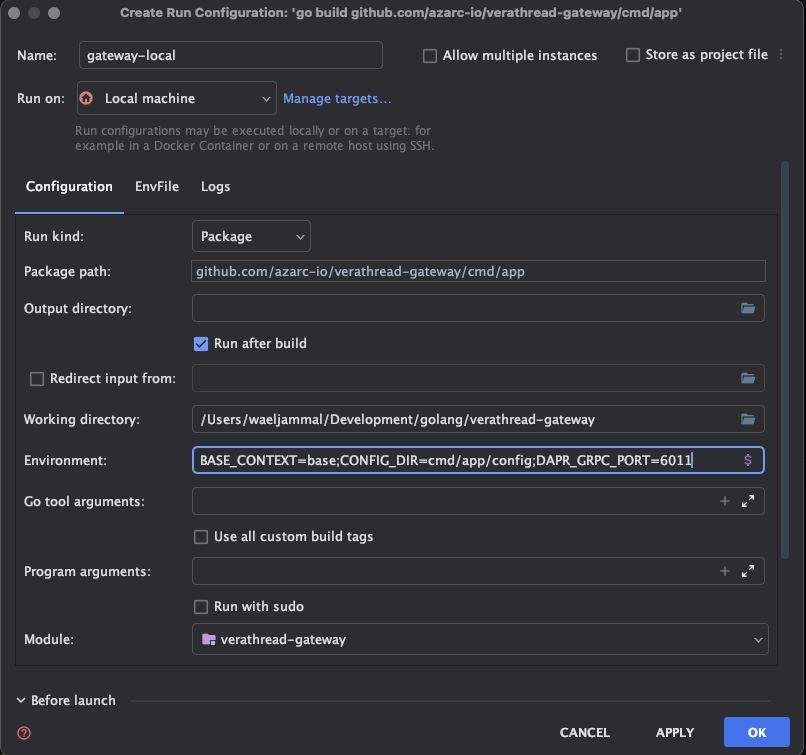
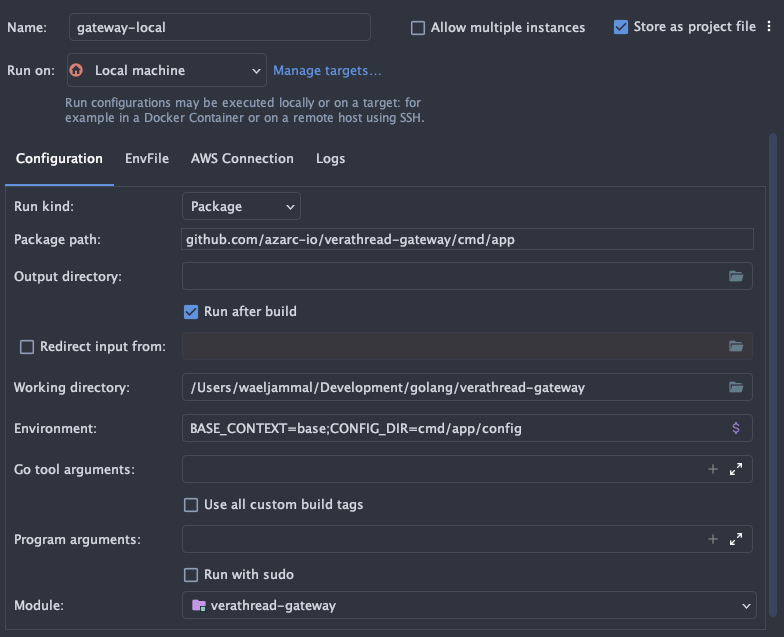
RPP-6: Doc changes

diff --git a/docs/docs/gs_setup.md b/docs/docs/gs_setup.md
@@ -71,13 +71,12 @@ Here are some descriptions of important environment settings:
 - NAMESPACE: Set this to the first initial and last name e.g. `wael-dev`
     - **Note**: If you are using the developer toolkit then you must set this to the same namespace as defined in the toolkits `.env` file
 - BIND_ADDRESS: You should leave this as default unless you want services to be exposed on a different ip
-- NATS_ADDRESS: This is optional unless you have auto app discovery enabled (off by default)
-- AUTH_DOMAIN: Ask another dev or your manager for this value
+- MONGO_HOST: The mongodb host, this is a mongo dsn eg. `mongo://localhost:27017`
+- NATS_ADDRESS: The nats server address eg. `nats://localhost:4222`
+- AUTH_DOMAIN: Ask another dev or your manager for this value, this is the auth0 domain to use
 - AUTH_CLIENT_ID: Ask another dev or your manager for this value
 - AUTH_CLIENT_SECRET: Ask another dev or your manager for this value
 - PROJECT_BASE_DIR: This should be the absolute path to the root of the project where you have it checked out
-- DAPRD_BINARY: Make sure you update this whenever a new release is available in the dapr repo
-- DAPRD_BIN_PATH: Absolute path to the `.data/bin` in the root of the project
 - TILT_ARCH: Set this to `amd64` if you are on an intel machine otherwise set it to `arm64`
 
 ### Pick a dev pipeline
@@ -85,7 +84,7 @@ Here are some descriptions of important environment settings:
 !!! warning
 
     Please note that you can not run both appraoches concurrently, if you want to develop using tilt then
-    you must stop anything started in the other for eg. by running `docker-compose down` if you were using bare metal and 
+    you must stop anything started in the other for eg. by running `docker compose down` if you were using docker compose and 
     want to switch to tilt. This is because both solutions expose the same ports at the host level.
 
 If you would like to develop live on kubernetes then start [here](tilt.md) otherwise go [here](ide.md).

diff --git a/docs/docs/compose.md b/docs/docs/compose.md
@@ -3,7 +3,7 @@
 You can begin working on this project using docker compose without the need to have `golang` and `node` installed on your
 machine.
 
-!!! info
+!!! note
 
     Please note that the first time you start the environment it could take a few minutes for the entire stack
     to become stable and healthy.
@@ -15,31 +15,34 @@ machine.
 
 ### Commands
 
-Run the following command in the root of the project to build the docker images:
+!!! info
+
+    You can run the `task` command in the root of the project to get a list of tasks and their descriptions.
+
+Bring up the dev stack:
 
 ```shell
-docker-compose -f docker-compose-dev.yml build
+task compose:dev
 ```
-Run the following command to bring up the stack:
+
+Tear down the dev stack:
 
 ```shell
-docker-compose -f docker-compose-dev.yml up --watch
+task compose:dev:down
 ```
 
-!!! note
+Rebuild the docker images:
 
-    If you have prevously run docker compose in one of the other Verathread projects then you will need
-    to run `docker-compose down` to bring down the existing stack before you bring up the gateways stack.
+!!! info
 
-    If you get an error about a containers name being already in use then run the following command instad.
-    ``` shell
-    docker-compose -f docker-compose-dev.yml up --watch --remove-orphans
-    ```
-
-Run the following command to take down the stack:
+    This is only required if you have made changes to the docker files.
+    The below command will rebuild all containers, there are more fine grained tasks available if you prefer
+    you can run the `task` command to see a list.
 
 ```shell
-docker-compose down
+task compose:rebuild
 ```
+
+---
 
 You can now begin coding, your changes will be hot reloaded for the backend and HMR updates for the front end.

diff --git a/docs/docs/ide.md b/docs/docs/ide.md
@@ -6,16 +6,16 @@ but first make sure you meet the requirements and prerequisites below.
 ### Requirements
 
 * Node 20+
-* Go 1.22.2+
-* Docker
-* Docker Compose
+* Go 1.22+
+- [Docker](https://www.docker.com/get-started/)
+- [Docker Compose](https://docs.docker.com/compose/install/)
 * Installed tools from the [Getting Started](gs_setup.md) step
 
 ### Prerequisites
 
-For both options it is required that you are not running tilt, you can instead run 
+To bring up Mongo, Nats and Redis run the following command
 ```shell
-docker-compose up -d
+task compose
 ```
 in the root of the project to bring up any dependencies before using either of the options below.
 
@@ -26,7 +26,7 @@ The first is to simply start the front end using `yarn dev` and create a run con
 Your run configuration should have the following Environment Variables set:
 
 ```shell
-BASE_CONTEXT=base;CONFIG_DIR=cmd/app/config;DAPR_GRPC_PORT=6011
+BASE_CONTEXT=base;CONFIG_DIR=cmd/app/config
 ```
 
 ![image](static/ide_run_config1.png)
